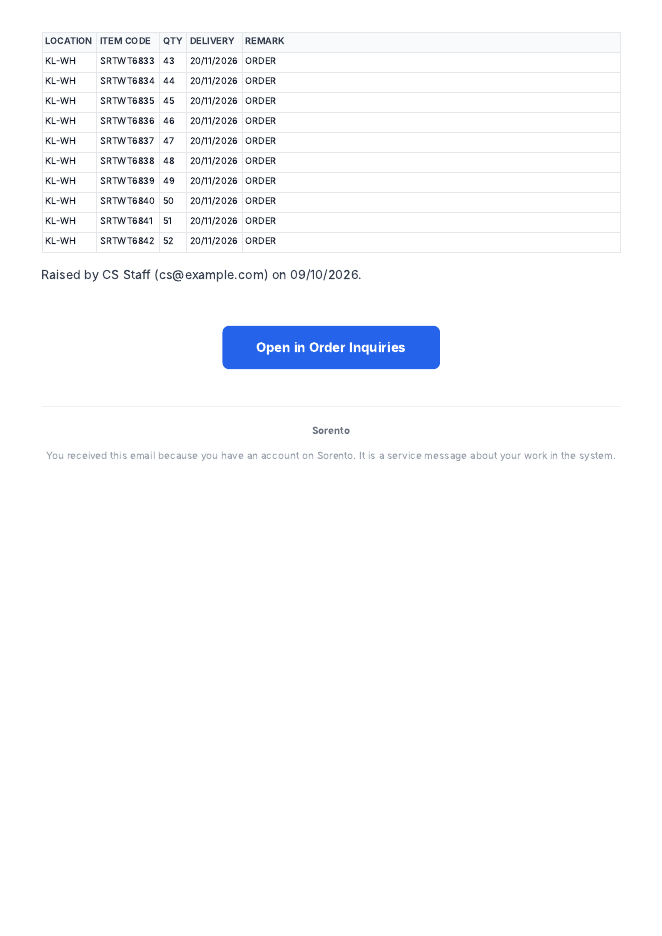
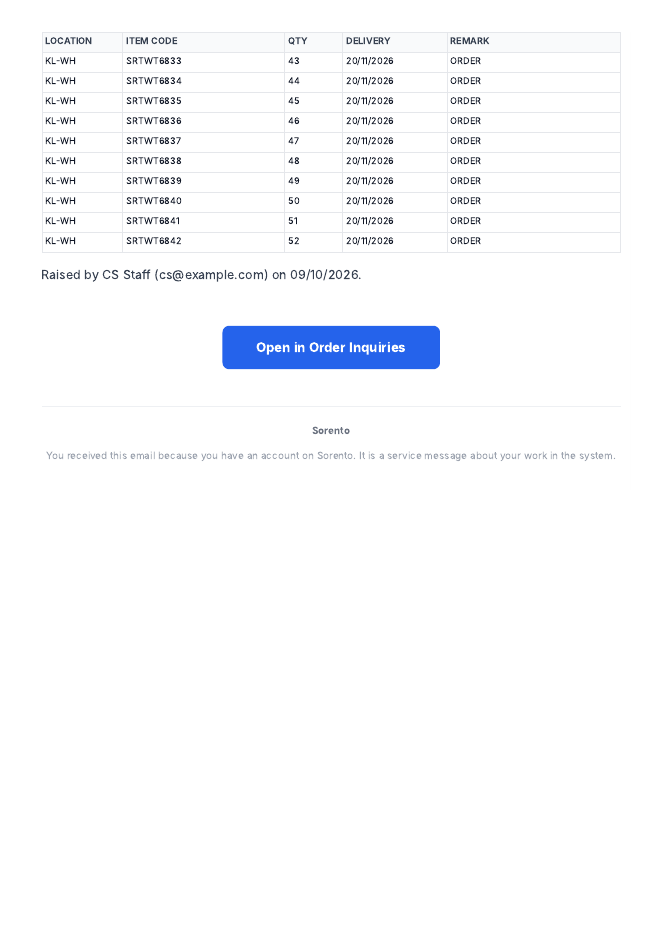
fix(scm): OI handover line table spreads its width across columns (OI-EMAIL-PRINT)
Owner hand test (SO421287): with short remarks REMARK soaked up all the leftover width,
leaving a big empty area. Every line-table header now carries an explicit percentage
(width attribute plus style, Outlook-safe) per column variant, ITEM CODE widest, REMARK a
moderate share; the order table gets fixed shares too. Every REMARK still fits one line.

Claude-Session: https://claude.ai/code/session_0128QV6Rszh9fo9ABpWJyzZC

Changed region(s): [[0.1511, 0.031, 0.4532, 0.2788], [0.5136, 0.031, 0.6042, 0.2788], [0.6647, 0.031, 0.7251, 0.2788]]

diff --git a/documentation/plans/scm/evidence/oi-email-print/print_check.js b/documentation/plans/scm/evidence/oi-email-print/print_check.js
@@ -3,7 +3,7 @@ const fs = require('fs');
 const dir = process.argv[2];
 (async () => {
   const b = await chromium.launch({ executablePath: '/opt/pw-browsers/chromium-1194/chrome-linux/chrome' });
-  for (const c of ['case1', 'case2', 'case3', 'case4', 'case5']) {
+  for (const c of ['case1', 'case2', 'case3', 'case4', 'case5', 'case6', 'case7']) {
     const p = await b.newPage({ viewport: { width: 698, height: 1000 } });
     await p.setContent(fs.readFileSync(`${dir}/${c}.html`, 'utf8'));
     const m = await p.evaluate(() => {
@@ -16,7 +16,11 @@ const dir = process.argv[2];
         const pad = parseFloat(getComputedStyle(td).paddingTop) + parseFloat(getComputedStyle(td).paddingBottom);
         return [td.textContent.trim(), Math.round((td.getBoundingClientRect().height - pad) / lh)];
       }).filter(([, n]) => n > 1);
-      return { remarkLines, scrollWidth: document.documentElement.scrollWidth, card, rows: t[1].querySelectorAll('tbody tr').length, multi: [...new Set(multi)] };
+      const colW = [...t[1].querySelectorAll('thead th')].map(th => th.textContent.trim() + ':' + Math.round(th.getBoundingClientRect().width));
+      const tableW = Math.round(t[1].getBoundingClientRect().width);
+      const remarkTd = [...t[1].querySelectorAll('tbody tr')].filter(r => r.children.length > 1).map(r => r.lastElementChild);
+      const remarkSlack = Math.min(...remarkTd.map(td => { const rg = document.createRange(); rg.selectNodeContents(td); return Math.round(td.getBoundingClientRect().width - rg.getBoundingClientRect().width); }));
+      return { colW, tableW, remarkSlack, remarkLines, scrollWidth: document.documentElement.scrollWidth, card, rows: t[1].querySelectorAll('tbody tr').length, multi: [...new Set(multi)] };
     });
     await p.emulateMedia({ media: 'print' });
     const pdf = await p.pdf({ preferCSSPageSize: true, printBackground: true });

diff --git a/sorento_crm_backend/alembic/versions/oihr_0005_print_one_page.py b/sorento_crm_backend/alembic/versions/oihr_0005_print_one_page.py
@@ -75,7 +75,7 @@ _PRINT_LAYOUT = json.loads(r'''{
    "type": "heading"
   },
   {
-   "html": "<table width=\"100%\" style=\"font-size:12px;line-height:16px;\">\n  <thead>\n    <tr><th style=\"white-space:nowrap;padding:4px;\">S/O NO</th><th style=\"white-space:nowrap;padding:4px;\">SO DATE</th><th style=\"white-space:nowrap;padding:4px;\">CUSTOMER</th><th style=\"white-space:nowrap;padding:4px;\">PROJECT</th></tr>\n  </thead>\n  <tbody>\n    {% for order in handover.orders %}\n    <tr>\n      <td style=\"white-space:nowrap;padding:4px;\">{{ order.so_number | default(\"\", true) }}</td>\n      <td style=\"white-space:nowrap;padding:4px;\">{{ order.so_date | default(\"\", true) }}</td>\n      <td style=\"padding:4px;\">{{ order.customer | default(\"\", true) }}</td>\n      <td style=\"padding:4px;\">{{ order.project | default(\"\", true) }}</td>\n    </tr>\n    {% endfor %}\n  </tbody>\n</table>\n{%- set cols = namespace(qty=false, delivery_date=false) -%}{%- for line in handover.lines -%}{%- if line.was and line.was.qty %}{% set cols.qty = true %}{% endif -%}{%- if line.was and line.was.delivery_date %}{% set cols.delivery_date = true %}{% endif -%}{%- endfor -%}\n{%- set span = 5 + (1 if cols.qty else 0) + (1 if cols.delivery_date else 0) -%}\n{%- set grouped = handover.orders | length > 1 -%}<table width=\"100%\" style=\"font-size:11px;line-height:15px;\">\n  <thead style=\"display:table-header-group;\">\n    <tr>\n      <th style=\"white-space:nowrap;padding:4px;\">LOCATION</th><th style=\"white-space:nowrap;padding:4px;\">ITEM CODE</th>\n      <th style=\"white-space:nowrap;padding:4px;\">QTY</th>{% if cols.qty %}<th style=\"white-space:nowrap;padding:4px;\">NEW QTY</th>{% endif %}\n      <th style=\"white-space:nowrap;padding:4px;\">DELIVERY</th>{% if cols.delivery_date %}<th style=\"white-space:nowrap;padding:4px;\">NEW DATE</th>{% endif %}\n      <th style=\"white-space:nowrap;padding:4px;width:100%;\">REMARK</th>\n    </tr>\n  </thead>\n  <tbody>\n    {% for line in handover.lines %}\n    {% if grouped and (loop.first or line.so_number != loop.previtem.so_number) %}\n    <tr style=\"page-break-inside:avoid;\"><td colspan=\"{{ span }}\" style=\"white-space:nowrap;padding:4px;background-color:#f3f4f6;font-weight:600;\">S/O NO {{ line.so_number | default(\"\", true) }}</td></tr>\n    {% endif %}\n    <tr style=\"page-break-inside:avoid;\">\n      <td style=\"white-space:nowrap;padding:4px;\">{{ line.location | default(\"\", true) }}</td>\n      <td style=\"white-space:nowrap;padding:4px;\">{{ line.item_code | default(\"\", true) }}</td>\n      <td style=\"white-space:nowrap;padding:4px;\">{% if line.was and line.was.qty %}{{ line.was.qty }}{% else %}{{ line.qty | default(\"\", true) }}{% endif %}</td>\n      {% if cols.qty %}<td style=\"white-space:nowrap;padding:4px;\">{% if line.was and line.was.qty %}{{ line.qty | default(\"\", true) }}{% endif %}</td>{% endif %}\n      <td style=\"white-space:nowrap;padding:4px;\">{% if line.was and line.was.delivery_date %}{{ line.was.delivery_date }}{% else %}{{ line.delivery_date | default(\"\", true) }}{% endif %}</td>\n      {% if cols.delivery_date %}<td style=\"white-space:nowrap;padding:4px;\">{% if line.was and line.was.delivery_date %}{{ line.delivery_date | default(\"\", true) }}{% endif %}</td>{% endif %}\n      <td style=\"padding:4px;\">{{ line.remark | default(\"\", true) }}{% if line.attachments %}<br>Attachments: {% for a in line.attachments %}{% if not loop.first %}, {% endif %}{% if a.attached %}{{ a.name }}{% else %}<a href=\"{{ a.url }}\">{{ a.name }}</a> (not attached, too large for email){% endif %}{% endfor %}{% endif %}</td>\n    </tr>\n    {% endfor %}\n  </tbody>\n</table>\n<p>Raised by {{ actor.name if actor else '-' }}{% if actor %} ({{ actor.email }}){% endif %} on {{ today }}.</p>",
+   "html": "<table width=\"100%\" style=\"font-size:12px;line-height:16px;\">\n  <thead>\n    <tr><th width=\"18%\" style=\"width:18%;white-space:nowrap;padding:4px;\">S/O NO</th><th width=\"16%\" style=\"width:16%;white-space:nowrap;padding:4px;\">SO DATE</th><th width=\"40%\" style=\"width:40%;white-space:nowrap;padding:4px;\">CUSTOMER</th><th width=\"26%\" style=\"width:26%;white-space:nowrap;padding:4px;\">PROJECT</th></tr>\n  </thead>\n  <tbody>\n    {% for order in handover.orders %}\n    <tr>\n      <td style=\"white-space:nowrap;padding:4px;\">{{ order.so_number | default(\"\", true) }}</td>\n      <td style=\"white-space:nowrap;padding:4px;\">{{ order.so_date | default(\"\", true) }}</td>\n      <td style=\"padding:4px;\">{{ order.customer | default(\"\", true) }}</td>\n      <td style=\"padding:4px;\">{{ order.project | default(\"\", true) }}</td>\n    </tr>\n    {% endfor %}\n  </tbody>\n</table>\n{%- set cols = namespace(qty=false, delivery_date=false) -%}{%- for line in handover.lines -%}{%- if line.was and line.was.qty %}{% set cols.qty = true %}{% endif -%}{%- if line.was and line.was.delivery_date %}{% set cols.delivery_date = true %}{% endif -%}{%- endfor -%}\n{%- set span = 5 + (1 if cols.qty else 0) + (1 if cols.delivery_date else 0) -%}\n{%- set grouped = handover.orders | length > 1 -%}\n{%- if cols.qty and cols.delivery_date %}{% set w = namespace(loc=9, code=19, qty=6, new_qty=9, dd=12, new_dd=12, remark=33) %}\n{%- elif cols.qty %}{% set w = namespace(loc=12, code=24, qty=9, new_qty=11, dd=16, new_dd=0, remark=28) %}\n{%- elif cols.delivery_date %}{% set w = namespace(loc=12, code=23, qty=9, new_qty=0, dd=15, new_dd=15, remark=26) %}\n{%- else %}{% set w = namespace(loc=14, code=28, qty=10, new_qty=0, dd=18, new_dd=0, remark=30) %}{% endif -%}\n<table width=\"100%\" style=\"font-size:11px;line-height:15px;\">\n  <thead style=\"display:table-header-group;\">\n    <tr>\n      <th width=\"{{ w.loc }}%\" style=\"width:{{ w.loc }}%;white-space:nowrap;padding:4px;\">LOCATION</th><th width=\"{{ w.code }}%\" style=\"width:{{ w.code }}%;white-space:nowrap;padding:4px;\">ITEM CODE</th>\n      <th width=\"{{ w.qty }}%\" style=\"width:{{ w.qty }}%;white-space:nowrap;padding:4px;\">QTY</th>{% if cols.qty %}<th width=\"{{ w.new_qty }}%\" style=\"width:{{ w.new_qty }}%;white-space:nowrap;padding:4px;\">NEW QTY</th>{% endif %}\n      <th width=\"{{ w.dd }}%\" style=\"width:{{ w.dd }}%;white-space:nowrap;padding:4px;\">DELIVERY</th>{% if cols.delivery_date %}<th width=\"{{ w.new_dd }}%\" style=\"width:{{ w.new_dd }}%;white-space:nowrap;padding:4px;\">NEW DATE</th>{% endif %}\n      <th width=\"{{ w.remark }}%\" style=\"width:{{ w.remark }}%;white-space:nowrap;padding:4px;\">REMARK</th>\n    </tr>\n  </thead>\n  <tbody>\n    {% for line in handover.lines %}\n    {% if grouped and (loop.first or line.so_number != loop.previtem.so_number) %}\n    <tr style=\"page-break-inside:avoid;\"><td colspan=\"{{ span }}\" style=\"white-space:nowrap;padding:4px;background-color:#f3f4f6;font-weight:600;\">S/O NO {{ line.so_number | default(\"\", true) }}</td></tr>\n    {% endif %}\n    <tr style=\"page-break-inside:avoid;\">\n      <td style=\"white-space:nowrap;padding:4px;\">{{ line.location | default(\"\", true) }}</td>\n      <td style=\"white-space:nowrap;padding:4px;\">{{ line.item_code | default(\"\", true) }}</td>\n      <td style=\"white-space:nowrap;padding:4px;\">{% if line.was and line.was.qty %}{{ line.was.qty }}{% else %}{{ line.qty | default(\"\", true) }}{% endif %}</td>\n      {% if cols.qty %}<td style=\"white-space:nowrap;padding:4px;\">{% if line.was and line.was.qty %}{{ line.qty | default(\"\", true) }}{% endif %}</td>{% endif %}\n      <td style=\"white-space:nowrap;padding:4px;\">{% if line.was and line.was.delivery_date %}{{ line.was.delivery_date }}{% else %}{{ line.delivery_date | default(\"\", true) }}{% endif %}</td>\n      {% if cols.delivery_date %}<td style=\"white-space:nowrap;padding:4px;\">{% if line.was and line.was.delivery_date %}{{ line.delivery_date | default(\"\", true) }}{% endif %}</td>{% endif %}\n      <td style=\"padding:4px;\">{{ line.remark | default(\"\", true) }}{% if line.attachments %}<br>Attachments: {% for a in line.attachments %}{% if not loop.first %}, {% endif %}{% if a.attached %}{{ a.name }}{% else %}<a href=\"{{ a.url }}\">{{ a.name }}</a> (not attached, too large for email){% endif %}{% endfor %}{% endif %}</td>\n    </tr>\n    {% endfor %}\n  </tbody>\n</table>\n<p>Raised by {{ actor.name if actor else '-' }}{% if actor %} ({{ actor.email }}){% endif %} on {{ today }}.</p>",
    "type": "custom_text"
   },
   {

diff --git a/documentation/plans/scm/evidence/oi-email-print/render_real.py b/documentation/plans/scm/evidence/oi-email-print/render_real.py
@@ -94,6 +94,19 @@ cases = {
              verb=IV_PRE_ORDERED, qty=6, delivery_date=D(2026, 11, 2), item_code="SRTMX0405",
              stock_location="KL-WH"),
     ],
+    "case6": [  # owner's hand test SO421287: one line, 5 columns, "ORDER, NEW ITEM CODE"
+        item("SO421287", "06/10/2026", "p7", "CUSTOMER H SDN BHD", "PROJECT Q", "raised", 1,
+             verb=IV_ORDER, qty=12, delivery_date=D(2026, 11, 6), item_code="SRT382-6-DIY",
+             stock_location="KL-WH", was={"item_code": "SRT382-6"}),
+    ],
+    "case7": [  # 7 columns + the long combo ORDER BACK, NEW ITEM CODE with a 16-char code
+        item("SO421300", "07/10/2026", "p8", "CUSTOMER J SDN BHD", "PROJECT W", "raised", 1,
+             verb=IV_ORDER_BACK, qty=16, delivery_date=D(2026, 11, 6), item_code="CWCX604-S-RL-NEW",
+             stock_location="KL-WH", cited_document="SPO-2026/08-0061", was={"item_code": "CWCX604-S-RL"}),
+        item("SO421300", "07/10/2026", "p8", "CUSTOMER J SDN BHD", "PROJECT W", "settled", 2,
+             verb=IV_ORDER, qty=30, delivery_date=D(2026, 11, 13), item_code="SRT382-6-DIY",
+             stock_location="KL-WH", was={"item_code": "SRT382-6", "qty": 24, "delivery_date": D(2026, 11, 6)}),
+    ],
     "case3": [  # long order: 42 lines
         item("SO418900", "01/10/2026", "p4", "CUSTOMER D SDN BHD", "PROJECT M", "raised", i,
              verb=IV_ORDER, qty=10 + i, delivery_date=D(2026, 11, 20), item_code=f"SRTWT{6800 + i}",

diff --git a/documentation/plans/scm/oi-email-print-09oct-acceptance-criteria.md b/documentation/plans/scm/oi-email-print-09oct-acceptance-criteria.md
@@ -30,6 +30,13 @@ Plan: `PLAN-oi-email-print-09oct.md`. Mock: `ALIGN-oi-email-print-09oct.html`.
 - **AC-P7** Every `th`, and every `td` except REMARK, carries `white-space:nowrap`. The
   owner's case `DELAY, ORDER 6, NEW ITEM CODE` takes one line on the 672px card with both NEW
   columns and a 16-char code present (line table 11px).
+- **AC-P14** (owner hand test 9 Oct, SO421287: a big empty area right of REMARK) Every
+  line-table header carries an explicit percentage width (`width="N%"` attribute, mirrored in
+  the style), summing to 100 in each variant; ITEM CODE is the widest fixed column and REMARK
+  a moderate share (5 columns 14/28/10/18/30; +NEW QTY 12/24/9/11/16/28; +NEW DATE
+  12/23/9/15/15/26; 7 columns 9/19/6/9/12/12/33). The order table is 18/16/40/26. Every
+  REMARK, including `DELAY, ORDER 6, NEW ITEM CODE` and `ORDER BACK, NEW ITEM CODE` in the
+  7-column layout with a 16-char code, stays on one line.
 - **AC-P8** The rendered mail's card is 672px wide (`print` width), side gutters 12px; the shell's
   `<style>` carries an `@media print` rule and `@page { size: A4 portrait }`.
 - **AC-P9** Printing the mock's "after" email in Chromium to A4 portrait gives one page for 12 lines

diff --git a/documentation/plans/scm/PLAN-oi-email-print-09oct.md b/documentation/plans/scm/PLAN-oi-email-print-09oct.md
@@ -1,6 +1,6 @@
 # PLAN: OI handover email - no multi-line cells, fits one printed page (OI-EMAIL-PRINT)
 
-Status: Build complete, REMARK wording per owner rulings 9 Oct (Q-A to Q-E all built), on review + hand test (feature track, abbreviated per the crew brief; carries one data migration on `email_templates`, so not the small fix track). Layout passed the owner hand test 9 Oct.
+Status: Build complete; owner hand test 9 Oct passed the REMARK wording and asked for balanced column widths (AC-P14), built; on review + hand test (feature track, abbreviated per the crew brief; carries one data migration on `email_templates`, so not the small fix track).
 Lane: OI-EMAIL-PRINT, branch `claude/oi-email-print-ucrsgl`, PR #1543
 Domain: scm (order inquiry handover email, `order_inquiry_handover` automation) + email layout shell
 UAC: `oi-email-print-09oct-acceptance-criteria.md` alongside
